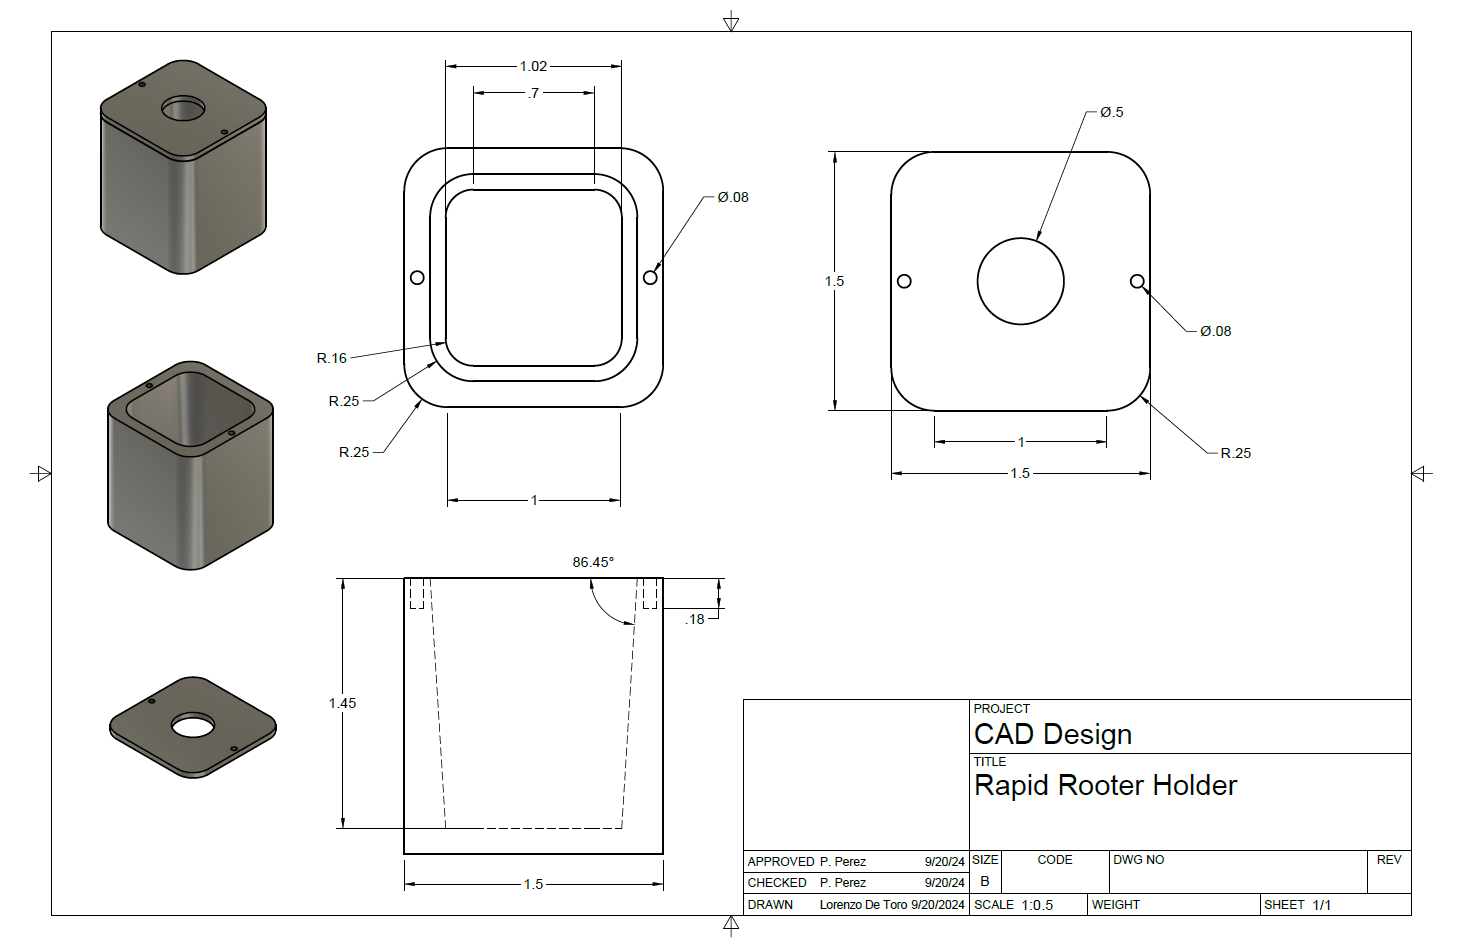
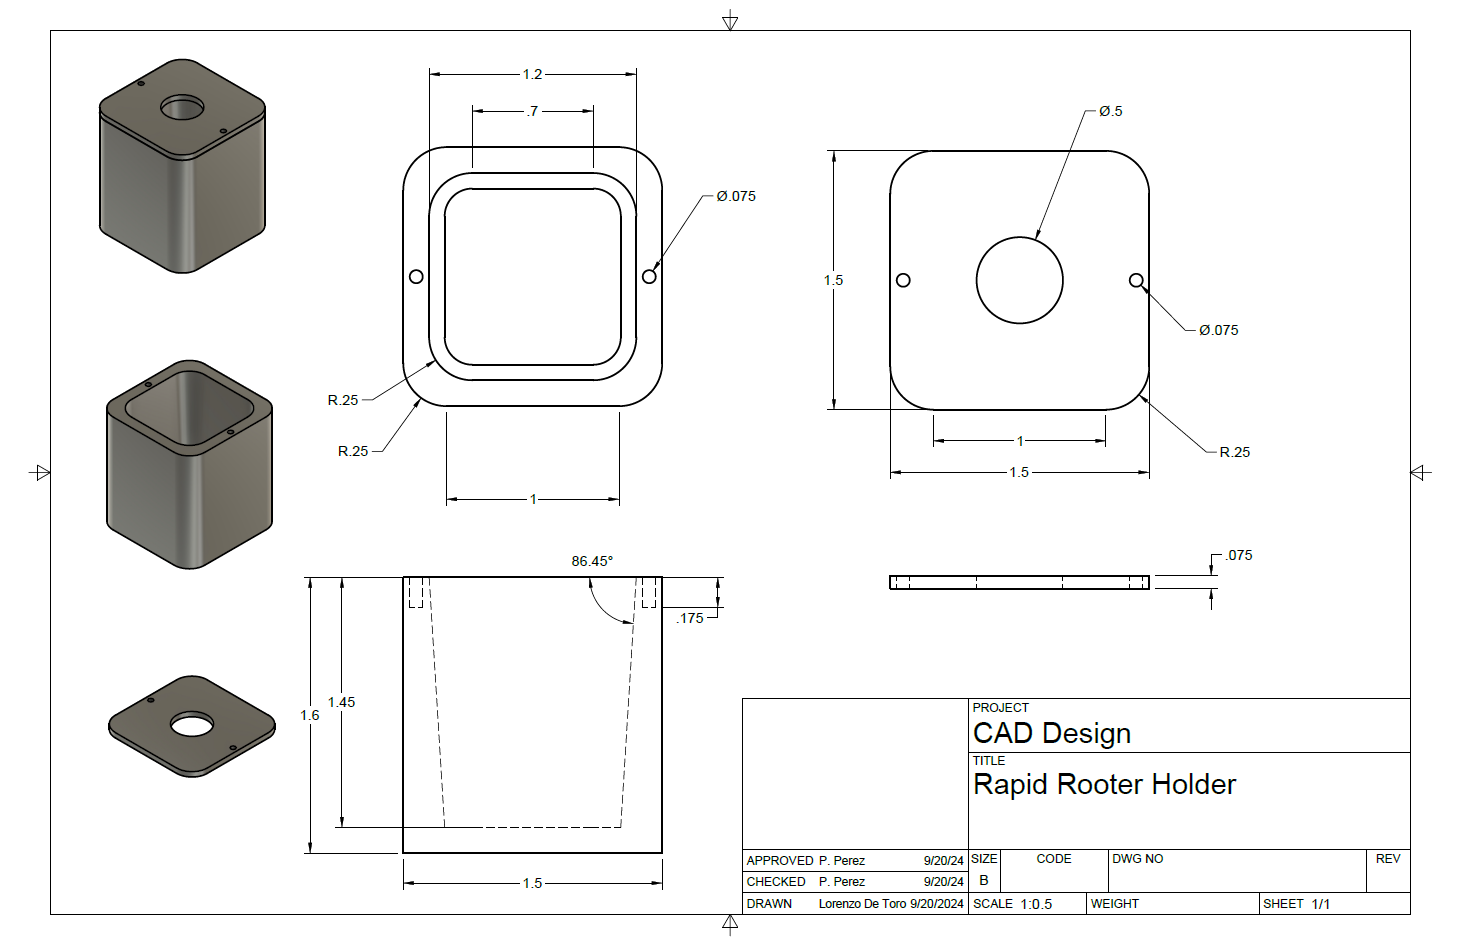
CAD page text added

diff --git a/CAD.html b/CAD.html
@@ -33,9 +33,28 @@
         <div class="2D CAD">
            <h2> 2D Computer Aided Design </h2>
            <p>
-                
+            My first order of business was to come up with a base design that I could begin working with. 
+            I first wanted to get some inspiration for the project, so I went over to the GBE website to 
+            see what they had. Here there was a header with their title and an image logo, which had purple 
+            lettering and a growing leaf of lettuce in front of the ISS and the Earth. I decided that I 
+            wanted to follow a similar color scheme with the greens and blues of the Earth and the purple 
+            used in the lettering. In hindsight, sketching out possible designs for my logo may have been 
+            a good idea for this step, however I ended up skipping this and just going straight into the 2D 
+            CAD software, thinking that I would figure it out along the way. 
            </p>
            <img src="images/2D CAD/GBE-header.png" alt="GBE header" class="center">
+           <br>
+
+           <p>
+            Next I needed to decide on what 2D software I was going to use. I wanted to create a 
+            pixel-art-style logo, as I was going for a pixelated theme on my website and wanted to keep 
+            everything the same, plus I’ve always been fond of this art style. I initially tried to use 
+            Affinity’s vector graphics editor, Designer 2, using a Canva educational license, however this 
+            presented an issue. While I was able to change the grid size down to the scale I wanted to work with, 
+            I was unable to find a pixel brush that would work with the style I wanted. While looking online for 
+            where the brush could be, I found that Affinity’s image editing software, Photo 2, had an easily 
+            accessible pixel brush, so I switched over to this application to start my design.
+           </p>
            <div class="row"> 
                 <div class="column">
                     <img src="images/2D CAD/2D0.PNG" alt="2D0" style="width:100%">
@@ -44,36 +63,161 @@
                     <img src="images/2D CAD/2D2.PNG" alt="2D2" style="width:100%">
                 </div>
             </div>
-            <div class="2Dimg">
-                <img src="images/2D CAD/2D1.PNG" Alt="2D1" class="center">
-                <img src="images/2D CAD/2D4.PNG" Alt="2D4" class="center">
-                <img src="images/2D CAD/2D6.PNG" Alt="2D6" class="center">
-                <img src="images/2D CAD/2D7.PNG" Alt="2D7" class="center">
-                <img src="images/2D CAD/2D8.PNG" Alt="2D8" class="center">
-                <img src="images/2D CAD/2D11.PNG" Alt="2D11" class="center">
-                <img src="images/2D CAD/2D15.PNG" Alt="2D15" class="center">
-                <img src="images/2D CAD/2D17.PNG" Alt="2D17" class="center">
-                <img src="images/2D CAD/Fairchild Project Logo.jpeg" Alt="FCLogo" class="center">
-            </div>
+            <br>
+
+            <p>
+                To begin my project, I had to select the size of my canvas. I wanted to go with a square shape, 
+                so I selected the “Social Media Square Post” option. After that, I lowered the pixel size to 64 
+                px by 64 px. While this did mean I would have to learn how to change the sizing later to export 
+                the image, this sizing allowed me to work on the design with the pixel size that I wanted.
+            </p>
+            <img src="images/2D CAD/2D1.PNG" Alt="2D1" class="center">
+            <br>
+
+            <p>I had already been brainstorming what my design was going to be: an image of the Earth floating in 
+                space with a plant sprout growing up and out at the top. I first began by drawing out a circle, 
+                creating a 34 px by 34 px cross and following a 3-3-2-1-2 pattern to create the roundness of the circle.
+            </p>
+            <img src="images/2D CAD/2D4.PNG" Alt="2D4" class="center">
+            <br>
+
+            <p>
+                Next I filled in the circle with a teal color known as Skobeloff. I also draw in different continents 
+                while centering on the Atlantic Ocean, namely sections of North America, South America, Europe, and 
+                Africa, using a forest green color. Lastly, I repositioned the Earth to be centered horizontally, but 
+                be placed on the lower half of the canvas vertically.
+            </p>
+            <img src="images/2D CAD/2D6.PNG" Alt="2D6" class="center">
+            <br>
+
+            <p>
+                Next I drew in the outline of the growing sprout in a darker shade of green (japanese laurel), 
+                making sure to give the plant an organic feel using light curves and an asymmetrical design.
+            </p>
+            <img src="images/2D CAD/2D7.PNG" Alt="2D7" class="center">
+            <br>
+
+            <p>
+                Here I colored in the plant using a different, now lighter shade of green (may green) and finally 
+                added a background, using dark purple to depict space and follow along with the color palette that 
+                I had chosen before beginning.
+            </p>
+            <img src="images/2D CAD/2D8.PNG" Alt="2D8" class="center">
+            <br>
+
+            <p>
+                I thought the dark purple background was too plain, so I decided to create a small gradient, going 
+                from a dark purple at the top to a light regalia purple at the bottom.
+            </p>
+            <img src="images/2D CAD/2D11.PNG" Alt="2D11" class="center">
+            <br>
+
+            <p>
+                Now all that was left was to add details. I began with adding white stars in the background, using 
+                mostly single-pixels but also drawing a few small crosses for bigger stars. I also added two levels 
+                of shading to the continents, going from darker on the outside to lighter in the center, to add some 
+                more color and vibrancy to the Earth.
+            </p>
+            <img src="images/2D CAD/2D15.PNG" Alt="2D15" class="center">
+            <br>
+
+            <p>
+                Lastly, I added some different shades of blue to the water, using a lighter shade of blue around the 
+                coasts while using a darker shade in the ocean areas further from land. I also added a small satellite 
+                orbiting the Earth as a tiny extra detail.
+            </p>
+            <img src="images/2D CAD/2D17.PNG" Alt="2D17" class="center">
+            <br>
+
+            <p>
+                Exporting the image was a small challenge as I had to figure out how to scale the image up without 
+                having the resolution drop. After changing one setting I was able to do this no issue and send it 
+                over to Google Drive. Here is the final product:
+            </p>
+            <img src="images/2D CAD/Fairchild Project Logo.jpg" Alt="FCLogo" class="center">
         </div>
         <br>
         <br>
+        
         <div class="3D CAD">
-            <h2> 3D Computer Aided Design</h2>
+            <h2> 3D Computer Aided Design </h2>
+            <p>
+                For my 3D design, I wanted to model some sort of casing for where the plant would grow. There are several 
+                different options for what medium the plant would grow in, however I decided that rapid rooter plug would 
+                be an easy option to model for. These were used in a zero gravity grow box, which was one of the resources 
+                our RFP provided us. The rapid rooter plugs provide a good place for the plants to grow as they provide 
+                several necessary nutrients and don’t fall apart like regular planting soil, instead staying put together. 
+                Here I try to make an all-encapsulating case for the plug so that it can sit in the clinostat. The image 
+                on the right provided me with the necessary measurements for the model, where I used the measurements when 
+                soaked.  This is not the definitive solution for how the plant will sit in the clinostat, nor is it a 
+                complete design, but rather a possible solution and a way to practice my 3D modeling skills.
+            </p>
+            <div class="row"> 
+                <div class="column">
+                    <img src="images/3D CAD/grow-box.png" alt="grow-box" style="width:100%">
+                </div>
+                <div class="column">
+                    <img src="images/3D CAD/rapid-rooter-size.png" alt="rapid-rooter-size" style="width:100%">
+                </div>
+            </div>
+            <br>
+
+            <p>
+                I chose to work with Fusion 360, as I am familiar with and have experience using the program.
+            </p>
             <img src="images/3D CAD/Fusion3.webp" Alt="Fusion" class="center">
+            <br>
+
+            <p>
+                I started off by creating a new component for the main holder, titled ‘Holder”. In this component I created a 
+                sketch of a 1.5 in square with the fillet tool applied to the corners with a 0.25 in radius. Finally, I extruded 
+                the sketch up 1.6 in to create the base shape of the holder. 
+                After creating the main body, I created a new sketch on the top face of the shape, this time creating a 1.2 in square, 
+                again with the fillet tool applied to the corners with a 0.25 in radius. This sketch was then extruded down into the 
+                shape with a -3° angle, creating a hole tapering inward. This creates the slot where the rapid rooter plug can sit 
+                inside, even at the max size while wet.
+            </p>
             <img src="images/3D CAD/3D0.png" Alt="3D0" class="center">
+            <br>
             <img src="images/3D CAD/3D1.png" Alt="3D1" class="center">
+            <br>
             <img src="images/3D CAD/3D2.png" Alt="3D2" class="center">
+            <br>
             <img src="images/3D CAD/3D3.png" Alt="3D3" class="center">
+            <br>
             <img src="images/3D CAD/3D4.png" Alt="3D4" class="center">
+            <br>
+
+            <p>
+                Next, I created a new component, titled “Lid”, so I can make the lid that will close the case. I began by creating a 
+                plane at the top of the holder to work on, then making a sketch and projecting the outside lines of the holder beneath, 
+                that way the lid measurements are exactly the same as the holder. I extruded this sketch up 0.75 in to create the lid. 
+                Then I created two small holes with a 0.075 in diameter on either side of the lid, centered to the middle of the lid 
+                vertically. I then extruded these circles down 0.25 in, creating two slots for potential screws or pegs to hold the 
+                lid and holder together. Finally, I sketched a 0.5 in diameter circle in the center of the lid and extruded it down, 
+                creating a slot for the plant to grow through. 
+            </p>
             <img src="images/3D CAD/3D5.png" Alt="3D5" class="center">
+            <br>
             <img src="images/3D CAD/3D6.png" Alt="3D6" class="center">
+            <br>
             <img src="images/3D CAD/3D7.png" Alt="3D7" class="center">
+            <br>
             <img src="images/3D CAD/3D8.png" Alt="3D8" class="center">
+            <br>
             <img src="images/3D CAD/3D9.png" Alt="3D9" class="center">
+            <br>
             <img src="images/3D CAD/3D10.png" Alt="3D10" class="center">
+            <br>
             <img src="images/3D CAD/3D11.png" Alt="3D11" class="center">
+            <br>
             <img src="images/3D CAD/3D12.png" Alt="3D12" class="center">
+            <br>
+
+            <p>
+                The final image shows the final design with the different parts dimensionalized. One aspect I can add on to this design 
+                later if we choose to continue working with it are clips or slot on each side so it can actually be held by the clinostat. 
+            </p>
             <img src="images/3D CAD/3D13.png" Alt="3D13" class="center">
         </div>
     </main>

diff --git a/styles.css b/styles.css
@@ -193,7 +193,7 @@ p{
     display: flex;
   }
   
-  .column {
+.column {
     align-items: center;
     flex: 50%;
     padding: 5px;
@@ -201,6 +201,12 @@ p{
     margin-left: auto;
     margin-right: auto;
   }
+
+.column img {
+    border-radius: 8px;
+}
+
+
 
 @media (max-width: 768px) {
     
